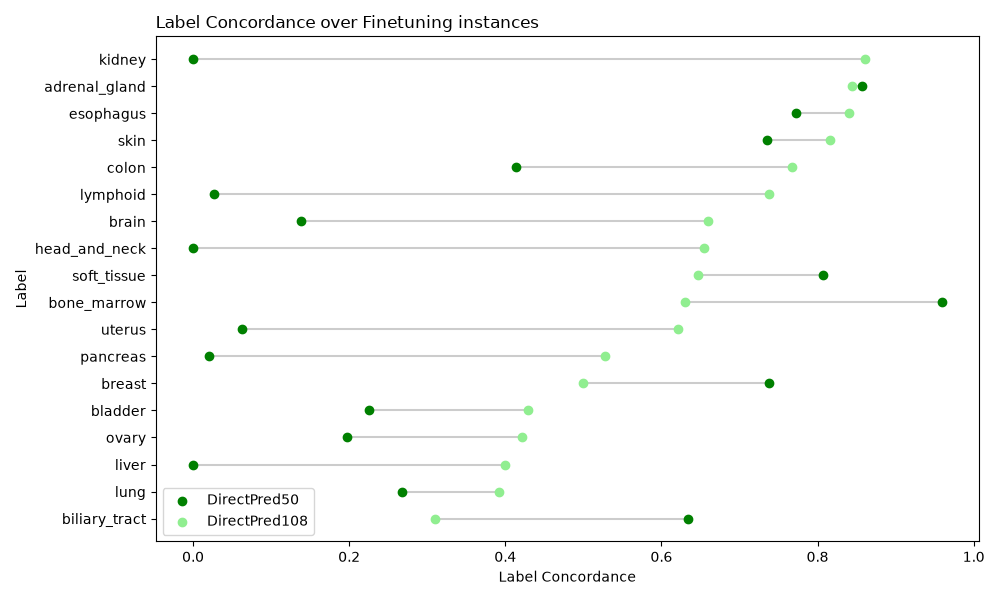
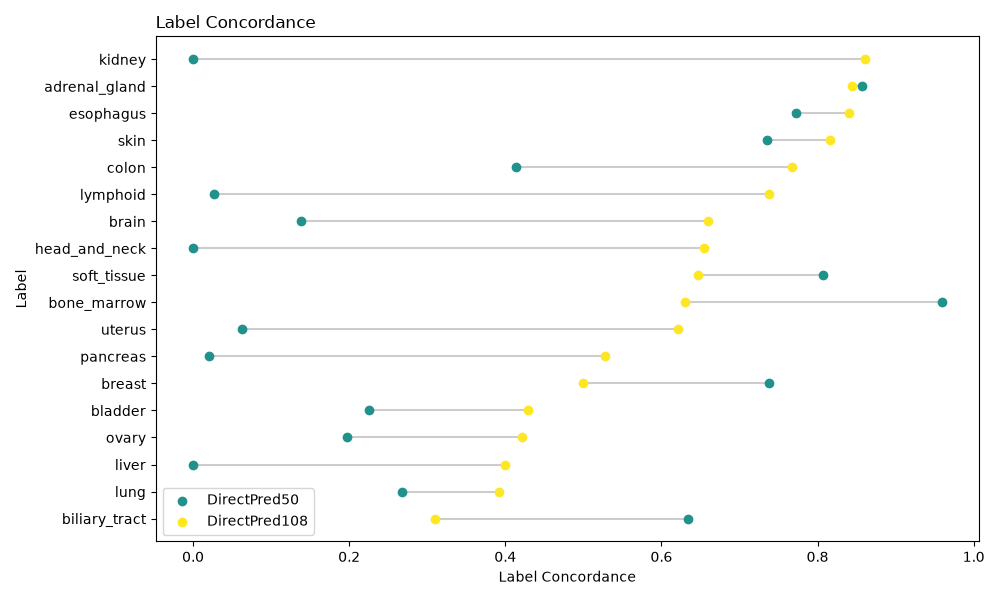
Satage 1

diff --git a/Scripts/creating_the_plots.py b/Scripts/creating_the_plots.py
@@ -84,29 +84,34 @@ def create_dataframe_over_confusionmetrics(path_to_dir):
     return result
 
 
-def lollipop_plot(df :pd.DataFrame,  save_loc:str,Title = "Label Concordance"):
+def lollipop_plot(df: pd.DataFrame, save_loc: str, Title="Label Concordance"):
     descriptors = list(df.columns.values)
-    colors = ['skyblue','green','lightgreen','yellow','orange','gold',"brown",'red','pink','purple','indigo','blue']
-    # Reorder it following the values of the first value:
-    ordered_df = df.sort_values(by=descriptors[len(descriptors)-1])
-    my_range=range(1,len(df.index)+1)
+    ordered_df = df.sort_values(by=descriptors[len(descriptors) - 1])
+    my_range = range(1, len(df.index) + 1)
 
-    # The horizontal plot is made using the hline function
-    for i in range(1,len(descriptors)-1):
-        plt.hlines(y=my_range, xmin=ordered_df[descriptors[i]], xmax=ordered_df[descriptors[i+1]], color='grey', alpha=0.4, zorder=1)
-    for i in range(1,len(descriptors)):
-        plt.scatter(ordered_df[descriptors[i]], my_range, color=colors[i%len(colors)], alpha=1, label=descriptors[i])
-    #plt.scatter(ordered_df['value2'], my_range, color='lightgreen', alpha=1 , label='value2')
+    palette = cm.viridis(np.linspace(0, 1, len(descriptors)))
+    hex_colors = [mcolors.to_hex(c) for c in palette]
+    category_color = dict(enumerate(hex_colors))  # {0: '#...', 1: '#...', ...}
+
+    for i in range(1, len(descriptors) - 1):
+        plt.hlines(
+            y=my_range,
+            xmin=ordered_df[descriptors[i]],
+            xmax=ordered_df[descriptors[i + 1]],
+            color='grey', alpha=0.4, zorder=1
+        )
+    for i in range(1, len(descriptors)):
+        plt.scatter(
+            ordered_df[descriptors[i]], my_range,
+            color=category_color[i], alpha=1, label=descriptors[i]
+        )
+
     plt.legend()
-
-    # Add title and axis names
     plt.yticks(my_range, ordered_df['label'])
-    plt.title("Label Concordance over Finetuning instances", loc='left')
+    plt.title(Title, loc='left')
     plt.xlabel('Label Concordance')
     plt.ylabel('Label')
     plt.tight_layout()
-
-    # Show the graph
     plt.savefig(save_loc)
     plt.clf()
 
@@ -248,7 +253,15 @@ def Plotpermetric(dict_to_path_to_dir: list[str], saveloc: str, Title: str = "Pe
         else:
             return "other"
 
-    categories = ["geq", "RandomForest", "supervised_vae", "other"]
+    # internal key -> display label. Edit freely without touching detection logic.
+    CATEGORY_LABELS = {
+        "geq": "Fine-Tune",
+        "RandomForest": "Random Forest",
+        "supervised_vae": "Supervised VAE",
+        "other": "Other",
+    }
+
+    categories = list(CATEGORY_LABELS.keys())  # fixed order, controls color assignment
     palette = cm.viridis(np.linspace(0, 1, len(categories)))
     hex_colors = [mcolors.to_hex(c) for c in palette]
     category_color = dict(zip(categories, hex_colors))
@@ -279,7 +292,8 @@ def Plotpermetric(dict_to_path_to_dir: list[str], saveloc: str, Title: str = "Pe
         metric_df = concats.filter(pl.col("metric") == metric)
 
         titles_ordered = metric_df["title"].to_list()
-        bar_colors = [category_color[c] for c in metric_df["category"].to_list()]
+        cats_ordered = metric_df["category"].to_list()
+        bar_colors = [category_color[c] for c in cats_ordered]
 
         plt.clf()
         plt.figure(figsize=(10, 6))
@@ -287,14 +301,16 @@ def Plotpermetric(dict_to_path_to_dir: list[str], saveloc: str, Title: str = "Pe
         plt.xticks(range(len(titles_ordered)), titles_ordered, rotation=90)
         plt.title(f"{Title}: {metric}")
 
-        # legend showing category -> color, only for categories actually present
-        present = [c for c in categories if c in set(metric_df["category"].to_list())]
+        # legend uses CATEGORY_LABELS for display text, only for categories present
+        present = [c for c in categories if c in set(cats_ordered)]
         handles = [plt.Rectangle((0, 0), 1, 1, color=category_color[c]) for c in present]
-        plt.legend(handles, present, title="Category")
+        labels = [CATEGORY_LABELS[c] for c in present]
+        plt.legend(handles, labels, title="Category")
 
         plt.tight_layout()
         plt.savefig(os.path.join(saveloc, Title + metric + ".png"), bbox_inches='tight')
         plt.clf()
+
 
 if __name__ == "__main__":
     headdir = os.path.dirname(os.getcwd())

diff --git a/README.md b/README.md
@@ -22,12 +22,12 @@ Next, finetuning on the celline Data.
 - Create a mapping from OncotreePrimaryDisease to the Labels present in Model or None. (`Scripts/targetva-mapper.py`) 
 - Filter for Tissues that have at least 25 Features. (`/Scripts/top_x_featureselection.py`)
 - Creating the From scratch datasets based on the samples used for Fineuning via the (`datasplit_same_as_finetune.py`) Script.
-- Running the from_scratch.sh script to create the  
-- The plots are created via the 
-
+- Running the from_scratch.sh script to train the comparison Models
+- to create the optimal train environmetnt split the dataset vie the `Scripts/splitdataset-for-low-datavolumetest.py` Script.
+- The plots are created via the Script `Scripts/creating_the_plots.py`
 
 # Observation
-Performance of Model on its original Dataset. 
+Performance of Model on its original Tissue Sample Dataset. 
 ```
 supervised_vae,uberon_tissue,categorical,balanced_acc,0.9319992766432235
 supervised_vae,uberon_tissue,categorical,f1_score,0.9507821995626191
@@ -36,12 +36,26 @@ supervised_vae,uberon_tissue,categorical,kappa,0.9435743085846471
 
 ![Performance of Finetuning](Plots/Performance%20of%20Models%20geq%2025f1_score.png)
 
-
 Confusion Matrices for each finetune step can be found unter in `Plots/geq_25_confusion_table/`
+Note the newly trained model recieved the same Samples to train upon as the Tissue Trained Model for Finetuning.
+
+
+While learning from scratch with the most fair spread ( 6 per mapped tissue Type totaling 108) the from scracth the from scratch models acheeved the following performance. 
+```
+balanced_acc,0.57163300301157
+f1_score,0.5760778636835013
+kappa,0.5401853319267591
+```
+
+ 
 
 ![Label Prediction performance](Plots/lollipopplot_25_and_more_samples_Finetuning.png) 
-Based upon the confusion Metrics, this plot shows the change of \[Label, Label\] over the process of Finetuning.
+
+Based upon the confusion Metrics, this plot shows the change of \[Label, Label\] over the process of Finetuning We see a significant increae of predictive performance for each Label with fluctuations. of ote are the 
 
 # Interpretation
-Although dependent on the mapping from Oncodisease to uberon tissue, the Model shows a notable increase of Accuracy through finetuning and outperforms models trained upon the same data.
+- to uberon tissue, the Model shows an expected Performance increase throughout finetuning. 
+- There is a Notable difference between the Gene express in cellines vs Tissue samples
+- despite that the Model perfomes coparatively well and outperforms from scratch Models in the space of < 200 samples.
+-  Some tissue types seem to respond better to finetuning than others.
 
